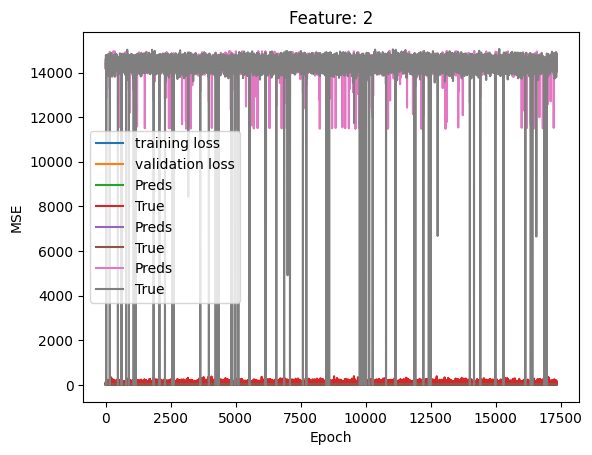
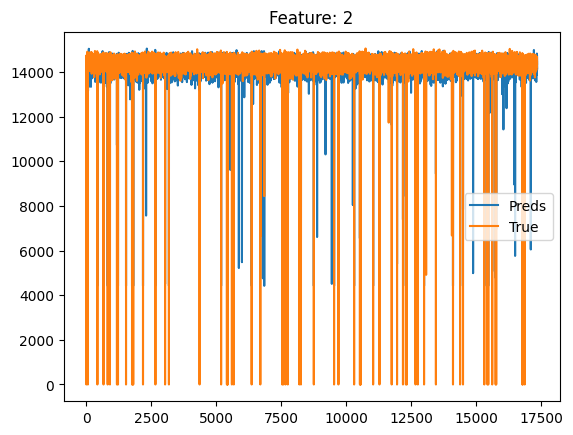
plot fix

diff --git a/train.py b/train.py
@@ -35,8 +35,8 @@ def predict(model, loader, scaler, plot_name=''):
 			preds.extend(y_hat.detach().cpu().numpy().squeeze())
 			true_y.extend(y.detach().cpu().squeeze().numpy())
 
-	preds = np.array(preds)
-	true_y = np.array(true_y)
+	preds = np.array(preds)[-120:]
+	true_y = np.array(true_y)[-120:]
 	#with torch.no_grad():
 	#	preds = model(x).detach().cpu().numpy().squeeze()
 
